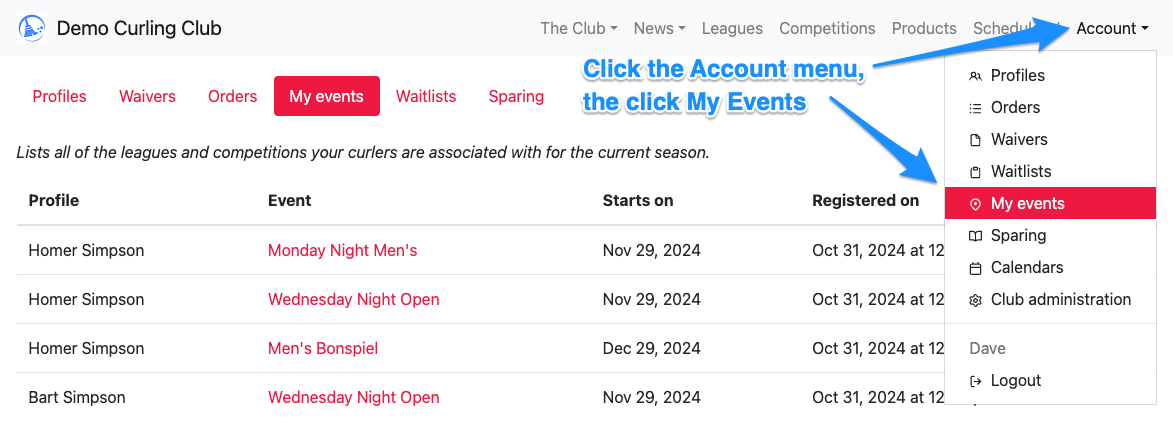
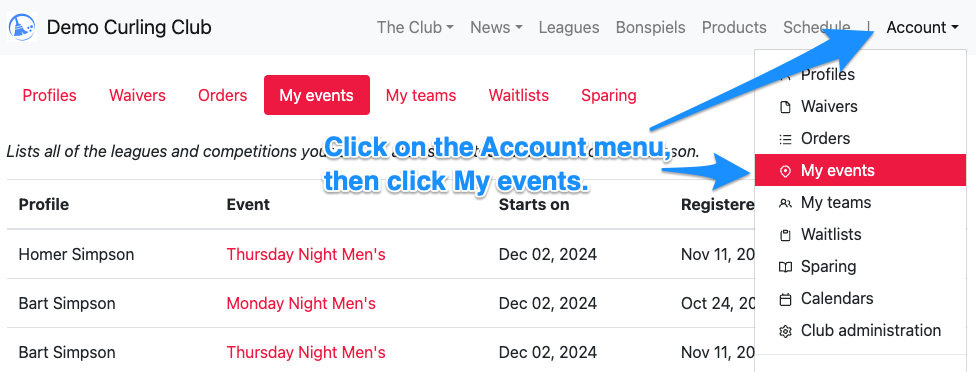
Updated teams section to My teams and uploaded new screenshots.

diff --git a/docs/for-curlers/teams.md b/docs/for-curlers/teams.md
@@ -1,13 +1,13 @@
 ---
 id: teams
-title: Teams
+title: My Teams
 slug: /for-curlers/teams
 ---
 
-Show the list of teams one or more of your profiles belong to.
-If you don't see any teams, that may just mean the club hasn't assigned your profile to any teams yet (and might not plan to either).
+Once your profile(s) has been assigned to a team in a league or competition, that team will show up in this section.
+If you don't see any teams here, that may just mean the club hasn't assigned your profile to any teams yet.
 
 When you click on a team name, you will be taken to a list of games that your team is participating in.
-If your club has enabled "participant scoring" for the league or competition then you will be able to submit results for games that were played within the last week.
+If your club has enabled **participant scoring** for the league or competition then you will be able to submit scores and results for games you played within the last week.
 
-![Team Games](/img/docs/for-curlers/team-games.png)
+![Team Games](/img/docs/for-curlers/my-teams.png)
